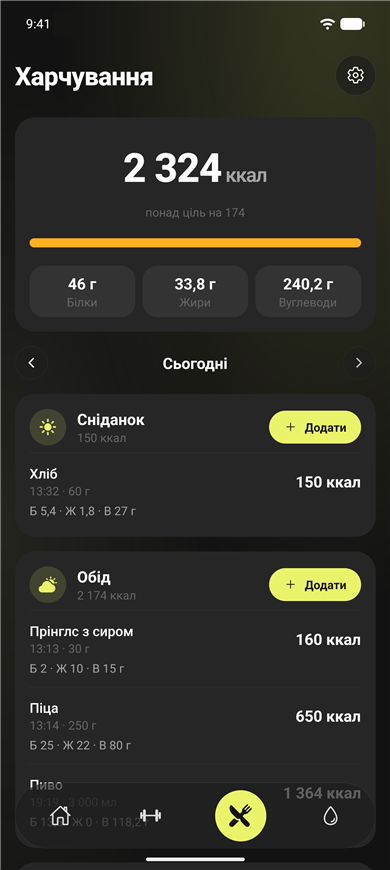
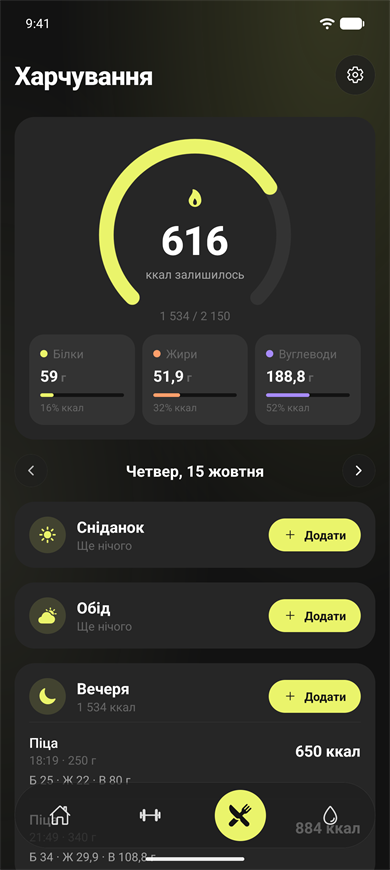
Show the food screen's calories as a ring with colored macro tiles

diff --git a/src/components/calorie-summary.tsx b/src/components/calorie-summary.tsx
@@ -1,0 +1,148 @@
+import Ionicons from '@expo/vector-icons/Ionicons';
+import { StyleSheet, View } from 'react-native';
+import Svg, { Circle } from 'react-native-svg';
+
+import { Card, Row, Text } from '@/components/ui';
+import { formatGrams, formatKcal, type Macros } from '@/lib/food';
+import { tr } from '@/lib/i18n';
+import { colors, fontSize, radius, spacing } from '@/theme';
+
+const SIZE = 210;
+const STROKE = 16;
+const R = (SIZE - STROKE) / 2;
+const LENGTH = 2 * Math.PI * R;
+// A 270° arc open at the bottom.
+const ARC = LENGTH * 0.75;
+
+const MACROS = [
+  { key: 'proteinG', label: tr('Білки', 'Protein'), kcalPerG: 4, color: colors.protein },
+  { key: 'fatG', label: tr('Жири', 'Fat'), kcalPerG: 9, color: colors.fat },
+  { key: 'carbsG', label: tr('Вуглеводи', 'Carbs'), kcalPerG: 4, color: colors.carbs },
+] as const;
+
+/** Calories eaten against the goal, and the protein / fat / carbs split below it. */
+export function CalorieSummary({
+  totals,
+  goal,
+  onPress,
+}: {
+  totals: Macros;
+  goal: number;
+  onPress?: () => void;
+}) {
+  const left = goal - totals.kcal;
+  const over = left < 0;
+  const filled = Math.min(totals.kcal / goal, 1) * ARC;
+  const macroKcal = MACROS.map((m) => totals[m.key] * m.kcalPerG);
+  const macroSum = macroKcal.reduce((s, k) => s + k, 0);
+
+  return (
+    <Card style={styles.card} onPress={onPress}>
+      <View style={styles.gauge}>
+        <Svg width={SIZE} height={SIZE} style={styles.arc}>
+          <Circle
+            cx={SIZE / 2}
+            cy={SIZE / 2}
+            r={R}
+            stroke={colors.surfaceRaised}
+            strokeWidth={STROKE}
+            strokeLinecap="round"
+            strokeDasharray={[ARC, LENGTH]}
+            fill="none"
+          />
+          {filled > 0 && (
+            <Circle
+              cx={SIZE / 2}
+              cy={SIZE / 2}
+              r={R}
+              stroke={over ? colors.warning : colors.accent}
+              strokeWidth={STROKE}
+              strokeLinecap="round"
+              strokeDasharray={[filled, LENGTH]}
+              fill="none"
+            />
+          )}
+        </Svg>
+        <Ionicons
+          name={over ? 'warning' : 'flame'}
+          size={22}
+          color={over ? colors.warning : colors.accent}
+        />
+        <Text style={[styles.amount, over && styles.over]}>{formatKcal(Math.abs(left))}</Text>
+        <Text variant="caption">
+          {over ? tr('ккал понад ціль', 'kcal over goal') : tr('ккал залишилось', 'kcal left')}
+        </Text>
+        <View style={styles.eaten}>
+          <Text variant="muted">
+            {formatKcal(totals.kcal)} / {formatKcal(goal)}
+          </Text>
+        </View>
+      </View>
+
+      <Row style={styles.macros}>
+        {MACROS.map((m, i) => {
+          const share = macroSum > 0 ? macroKcal[i] / macroSum : 0;
+          return (
+            <View key={m.key} style={styles.macro}>
+              <Row style={styles.macroHead}>
+                <View style={[styles.dot, { backgroundColor: m.color }]} />
+                <Text variant="muted" numberOfLines={1} style={styles.flex}>
+                  {m.label}
+                </Text>
+              </Row>
+              <Text variant="heading">
+                {formatGrams(totals[m.key])}
+                <Text variant="muted"> {tr('г', 'g')}</Text>
+              </Text>
+              <View style={styles.track}>
+                <View
+                  style={[styles.fill, { width: `${share * 100}%`, backgroundColor: m.color }]}
+                />
+              </View>
+              <Text variant="muted" style={styles.share}>
+                {Math.round(share * 100)}% {tr('ккал', 'kcal')}
+              </Text>
+            </View>
+          );
+        })}
+      </Row>
+    </Card>
+  );
+}
+
+const styles = StyleSheet.create({
+  flex: { flex: 1 },
+  card: { alignItems: 'center', paddingTop: spacing.xl },
+  gauge: { width: SIZE, height: SIZE, alignItems: 'center', justifyContent: 'center' },
+  // Starts the arc at the bottom left, so its opening faces down.
+  arc: { position: 'absolute', transform: [{ rotate: '135deg' }] },
+  amount: {
+    color: colors.text,
+    fontSize: fontSize.hero,
+    fontWeight: '800',
+    letterSpacing: -1,
+    marginTop: spacing.xs,
+  },
+  over: { color: colors.warning },
+  // Sits in the arc's opening.
+  eaten: { position: 'absolute', bottom: spacing.sm },
+  macros: { alignSelf: 'stretch', gap: spacing.sm, marginTop: -spacing.sm },
+  macro: {
+    flex: 1,
+    gap: spacing.xs,
+    padding: spacing.md,
+    borderRadius: radius.md,
+    backgroundColor: colors.glass,
+  },
+  macroHead: { gap: spacing.xs + 2 },
+  dot: { width: 8, height: 8, borderRadius: radius.pill },
+  track: {
+    height: 4,
+    borderRadius: radius.pill,
+    backgroundColor: colors.background,
+    overflow: 'hidden',
+    marginTop: spacing.xs,
+  },
+  fill: { height: '100%', borderRadius: radius.pill },
+  share: { fontSize: fontSize.xs },
+});

diff --git a/src/app/(tabs)/food.tsx b/src/app/(tabs)/food.tsx
@@ -3,9 +3,9 @@ import { router } from 'expo-router';
 import { useState } from 'react';
 import { Pressable, StyleSheet, View } from 'react-native';
 
+import { CalorieSummary } from '@/components/calorie-summary';
 import { useDialog } from '@/components/dialog';
 import { useTabBarSpace } from '@/components/floating-tab-bar';
-import { MacroRow } from '@/components/macro-row';
 import { SwipeToDelete } from '@/components/swipe-to-delete';
 import { Button, Card, CircleButton, Loading, Row, Screen, Text } from '@/components/ui';
 import { deleteFoodEntry, loadFood } from '@/db/food';
@@ -32,7 +32,6 @@ export default function FoodScreen() {
 
   if (!data) return <Loading />;
   const { goal, dayEntries, totals, days } = data;
-  const left = goal - totals.kcal;
 
   const remove = (id: number, label: string, close: () => void) =>
     dialog.show({
@@ -58,30 +57,7 @@ export default function FoodScreen() {
       headerRight={
         <CircleButton icon="settings-outline" onPress={() => router.push('/settings')} />
       }>
-      <Card style={styles.hero} onPress={() => router.push('/settings/food')}>
-        <Text style={styles.amount}>
-          {formatKcal(totals.kcal)}
-          <Text style={styles.unit}> {tr('ккал', 'kcal')}</Text>
-        </Text>
-        <Text variant="muted">
-          {left >= 0
-            ? tr(
-                `ще ${formatKcal(left)} з ${formatKcal(goal)}`,
-                `${formatKcal(left)} of ${formatKcal(goal)} left`,
-              )
-            : tr(`понад ціль на ${formatKcal(-left)}`, `${formatKcal(-left)} over goal`)}
-        </Text>
-        <View style={styles.track}>
-          <View
-            style={[
-              styles.fill,
-              { width: `${Math.min(totals.kcal / goal, 1) * 100}%` },
-              left < 0 && styles.fillOver,
-            ]}
-          />
-        </View>
-        <MacroRow macros={totals} />
-      </Card>
+      <CalorieSummary totals={totals} goal={goal} onPress={() => router.push('/settings/food')} />
 
       <Row style={styles.dayNav}>
         <CircleButton icon="chevron-back" size={36} onPress={() => setDaysAgo(daysAgo + 1)} />
@@ -194,19 +170,6 @@ export default function FoodScreen() {
 const styles = StyleSheet.create({
   flex: { flex: 1 },
   spaceBetween: { justifyContent: 'space-between' },
-  hero: { alignItems: 'center', paddingTop: spacing.xl },
-  amount: { color: colors.text, fontSize: fontSize.hero, fontWeight: '800', letterSpacing: -1 },
-  unit: { color: colors.textSecondary, fontSize: fontSize.xl, fontWeight: '600' },
-  track: {
-    alignSelf: 'stretch',
-    height: 10,
-    borderRadius: radius.pill,
-    backgroundColor: colors.accentSoft,
-    overflow: 'hidden',
-    marginTop: spacing.sm,
-  },
-  fill: { height: '100%', borderRadius: radius.pill, backgroundColor: colors.accent },
-  fillOver: { backgroundColor: colors.warning },
   dayNav: { gap: spacing.md, justifyContent: 'space-between' },
   dayTitle: { flex: 1, alignItems: 'center' },
   meal: { gap: 0, paddingVertical: spacing.sm },

diff --git a/src/theme/index.ts b/src/theme/index.ts
@@ -19,6 +19,10 @@ export const colors = {
   onAccentFaint: 'rgba(20, 20, 20, 0.1)',
   danger: '#FF5A5A',
   warning: '#FFB020',
+  // Protein, fat and carbs wherever they share one chart.
+  protein: '#EAF46B',
+  fat: '#FF9F6B',
+  carbs: '#A78BFA',
 } as const;
 
 export const spacing = {
